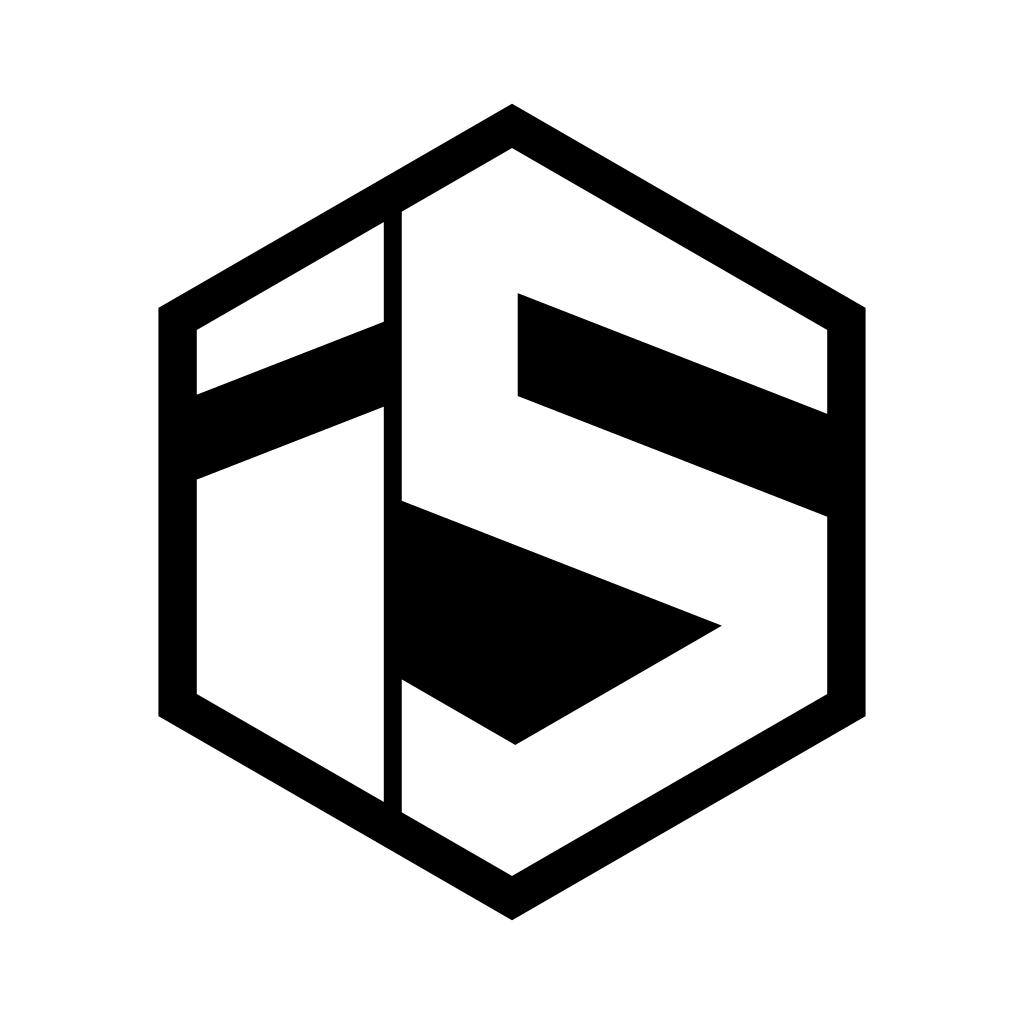
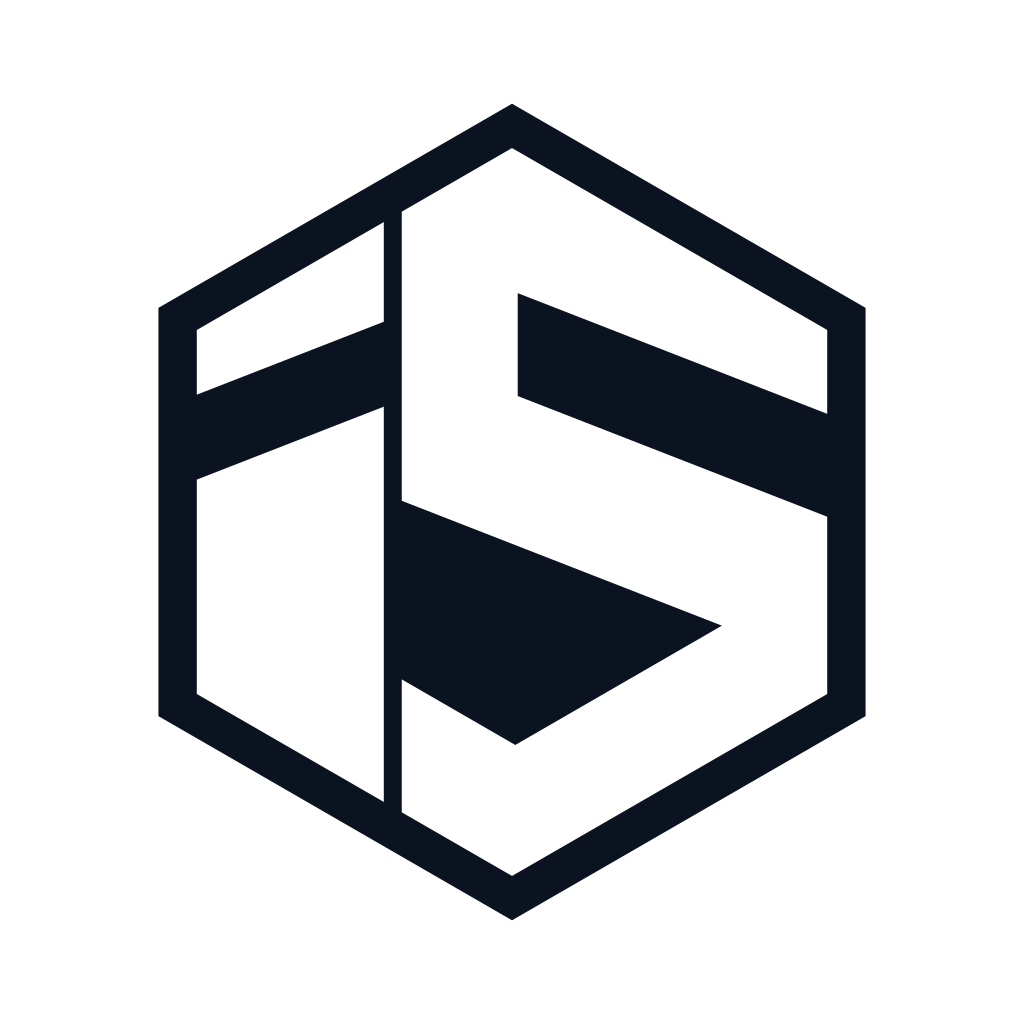
refactor(assets): move the mark from black to Ink
The mark was drawn in pure #000000 and the wordmark uses the design
system's Ink #0B1220. Side by side in a lockup a near-black next to a
true black reads as a printing error rather than a choice, so the mark
takes Ink. Dark plates move with it.

Geometry is untouched. The logo-v2 tag still points at the black
artwork for anything already referencing it.

Changed region(s): [[0.1562, 0.0938, 0.8438, 0.9062]]

diff --git a/scripts/integrum_is_svg.py b/scripts/integrum_is_svg.py
@@ -35,15 +35,18 @@ from pathlib import Path
 
 ASSETS = Path(__file__).resolve().parent.parent / "assets"
 
-BLACK = "#000000"
-WHITE = "#ffffff"
+# Ink and White are the design system's own tokens. The mark was drawn in
+# pure black; it uses Ink here so it can sit beside the wordmark without the
+# two reading as a printing error.
+INK = "#0B1220"
+WHITE = "#FFFFFF"
 
 # filename stem -> (ink, ground); ground None means transparent.
 VARIANTS = {
-    "integrumsys-mark": (BLACK, None),
+    "integrumsys-mark": (INK, None),
     "integrumsys-mark-inverse": (WHITE, None),
-    "integrumsys-mark-on-white": (BLACK, WHITE),
-    "integrumsys-mark-on-black": (WHITE, BLACK),
+    "integrumsys-mark-on-white": (INK, WHITE),
+    "integrumsys-mark-on-black": (WHITE, INK),
 }
 
 SIZE = 1254
